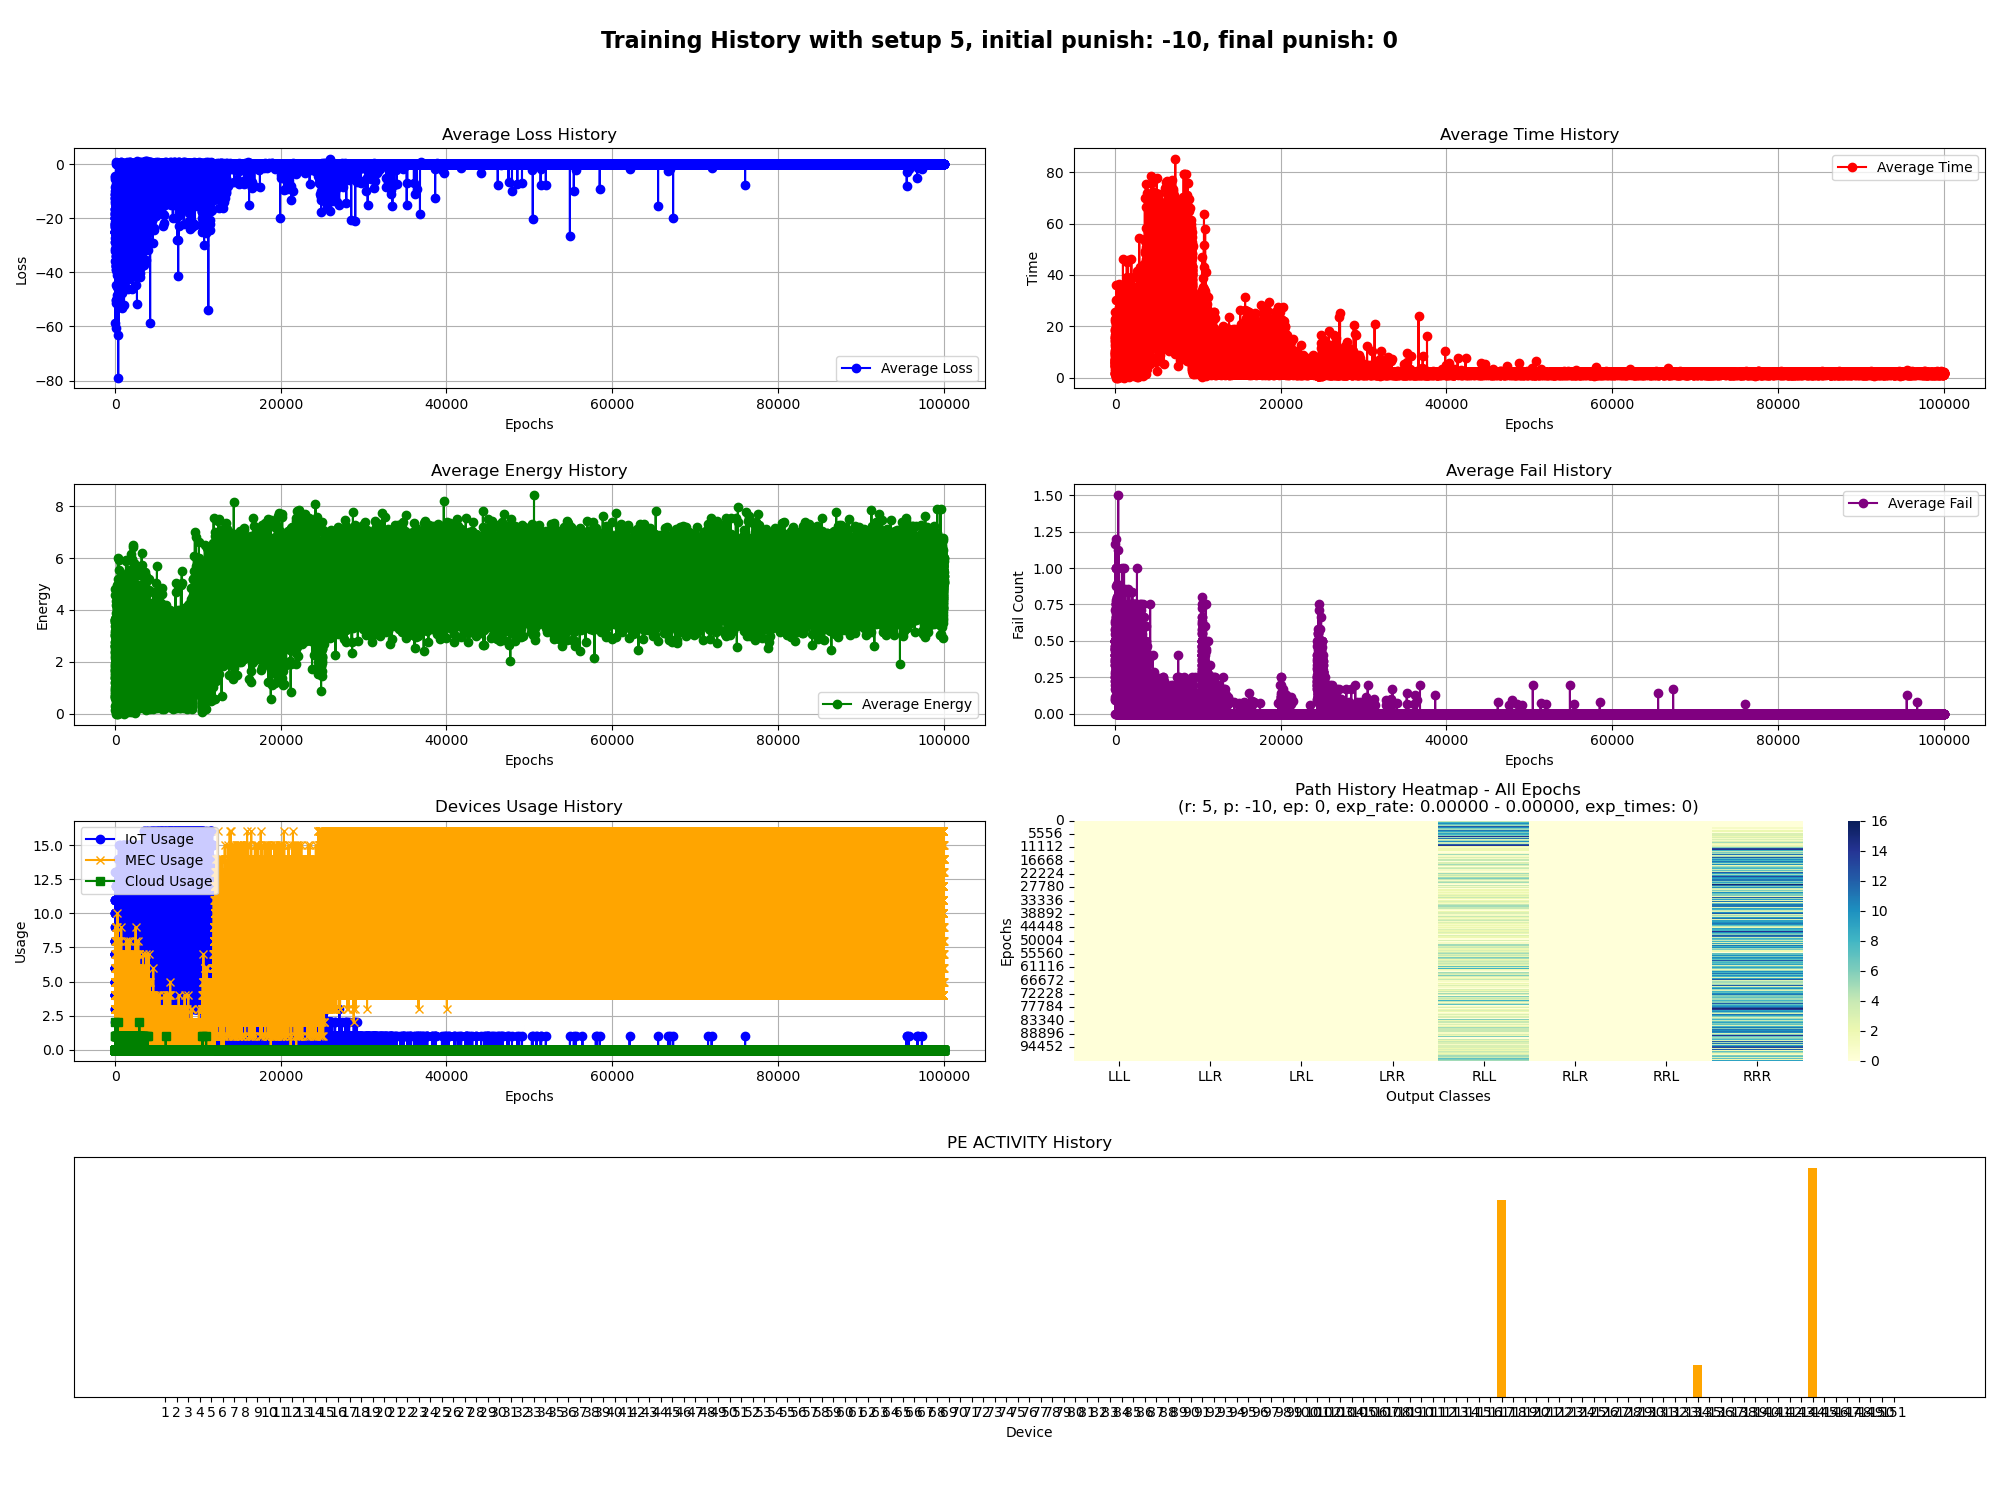
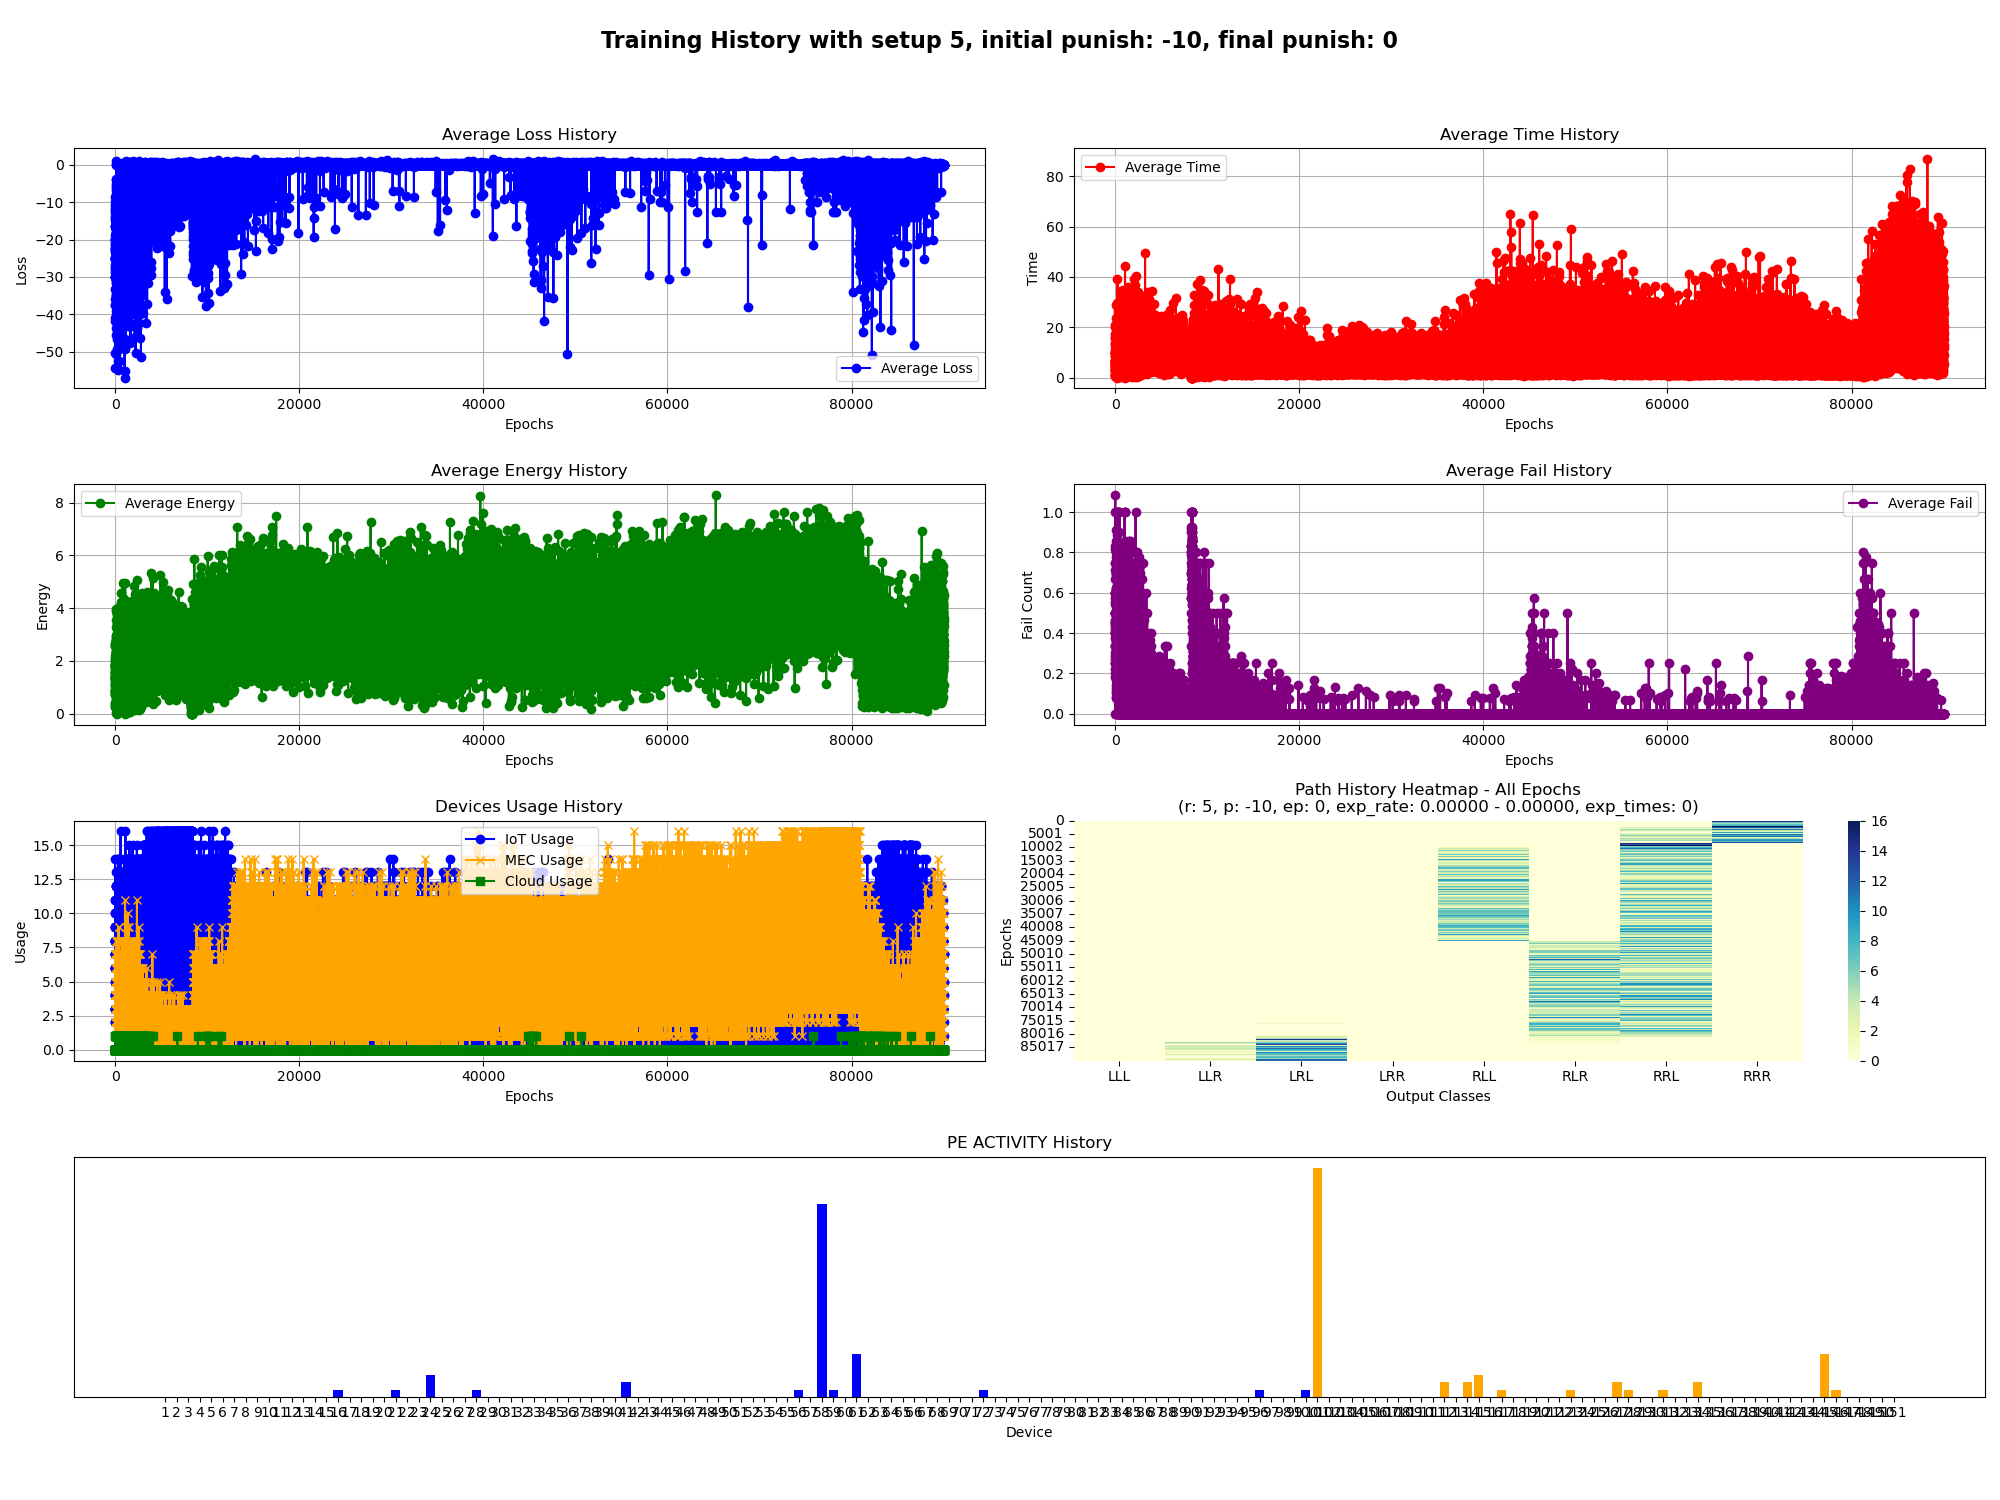
gin coeficient and diversity involved in utilization

diff --git a/env/env.py b/env/env.py
@@ -49,9 +49,17 @@ class Environment():
             self.monitor.run(job_id)
 
             utilization = None
+            diversity = None
+            gin = None
             if job_id > 1000:
                 self.change_env()
                 utilization = [sum(usage) for usage in self.device_usuages]
+                used_devices_count = sum(1 for usage in self.device_usuages if 1 in usage)
+                diversity = used_devices_count / len(self.devices)
+                gin = self.util.gini_coefficient(utilization)
+
+                # if used_devices_count != 151:
+                #     print(used_devices_count, diversity)
 
             time_job = energy_job = reward_job = loss_job = 0
             fail_job = np.array([0, 0, 0, 0])
@@ -61,8 +69,7 @@ class Environment():
             task_list = self.jobs[job_id]["tasks_ID"]
             for task_id in task_list:
                 current_task = self.tasks[task_id]
-                input_state = self.util.get_input(current_task)
-
+                input_state = self.util.get_input(current_task, diversity, gin)
                 action, path, devices = self.actor_critic.choose_action(input_state, utilization)
 
                 selected_device_index = action
@@ -87,6 +94,7 @@ class Environment():
                 (freq, vol) = selected_device['voltages_frequencies'][core_index][0]
                 # Normalize utilization to [0, 1]
                 selected_device_util = None
+                # diversity = None
                 if utilization is not None:
                     utilization = torch.tensor(utilization, dtype=torch.float)
                     # if job_id > 1000:
@@ -98,7 +106,7 @@ class Environment():
                                                                                     core_i=core_index,
                                                                                     freq=freq, volt=vol,
                                                                                     task_ID=task_id,
-                                                                                    utilization=selected_device_util)
+                                                                                    utilization=selected_device_util, diversity=diversity, gin=gin)
                 for i, _ in enumerate(self.device_usuages):
                     if i == selected_device_index:
                         self.device_usuages[i].append(1)
@@ -148,7 +156,7 @@ class Environment():
 
     ##### Functionality
 
-    def execute_action(self, pe_ID, core_i, freq, volt, task_ID, utilization):
+    def execute_action(self, pe_ID, core_i, freq, volt, task_ID, utilization, diversity, gin):
         pe = self.devices[pe_ID]
         task = self.tasks[task_ID]
         task_pres = [self.tasks[pre_id] for pre_id in task["predecessors"]]
@@ -176,8 +184,12 @@ class Environment():
         if learning_config['regularize_output']:
             reg_t = self.util.regularize_output(total_t=total_t)
             reg_e = self.util.regularize_output(total_e=total_e)
-        if utilization is not None:
-            return reward_function(t=reg_t, e=reg_e) * (1 - 1 * utilization) + battery_drain_punish, reg_t, reg_e, \
+        if utilization is not None and diversity is not None and gin is not None:
+            lambda_diversity = learning_config["max_lambda"] * (1 - diversity)
+            lambda_gini = learning_config["max_lambda"] * gin
+            lambda_penalty = learning_config["alpha_diversity"] * lambda_diversity + learning_config["alpha_gin"] * lambda_gini
+
+            return reward_function(t=reg_t, e=reg_e) * (1 - lambda_penalty * utilization) + battery_drain_punish, reg_t, reg_e, \
                 fail_flags[2], fail_flags[1], fail_flags[0]
         else:
             return reward_function(t=reg_t, e=reg_e) + battery_drain_punish, reg_t, reg_e, \

diff --git a/env/utils.py b/env/utils.py
@@ -10,7 +10,7 @@ class Utility:
         self.min_time, self.max_time, self.min_energy, self.max_energy = self.get_min_max_time_energy()
 
     # FEATURE EXTRACTION
-    def get_input(self, task):
+    def get_input(self, task, diversity, gin):
 
         if learning_config['regularize_input']:
             compLoad = [min(jobs_config["task"]["computational_load"]) * 1e6,
@@ -44,6 +44,15 @@ class Utility:
         else:
             task_features.extend([
                 task["task_kind"],
+            ])
+
+        if gin is not None and diversity is not None:
+            task_features.extend([
+                diversity, gin
+            ])
+        else:
+            task_features.extend([
+                0, 1
             ])
         return task_features
 
@@ -112,6 +121,24 @@ class Utility:
                 #     print(f' b_start: {battery_start}, b_end: {battery_end}, punish: {punish}')
 
         return punish, batteryFail
+
+    def lambda_D(self, D, lambda_max, T_low, T_high):
+        if D <= T_low:
+            return lambda_max
+        elif D < T_high:
+            return lambda_max * (T_high - D) / (T_high - T_low)
+        else:
+            return 0
+
+    def gini_coefficient(self, utils):
+        utils = np.array(utils)
+        utils = utils[utils != 0]  # Exclude zero counts if necessary
+        sorted_counts = np.sort(utils)
+        N = len(sorted_counts)
+        index = np.arange(1, N + 1)
+        total = utils.sum()
+        G = (2 * (index * sorted_counts).sum() - (N + 1) * total) / (N * total)
+        return G
 
     def regularize_output(self, total_t=0, total_e=0):
         if total_e:
@@ -254,7 +281,7 @@ def calc_total(device, task, task_pres, core, dvfs):
         #     baseEnergy = calc_energy(device, task, core, dvfs)
         #     totalEnergy = baseEnergy
 
-    if len(task_pres) > 0:
+    elif len(task_pres) > 0:
         predecessors_time_cost, predecessors_energy_cost = pred_cost(task_pres, device)
     totalTime += predecessors_time_cost
     totalEnergy += predecessors_energy_cost

diff --git a/config.py b/config.py
@@ -1,5 +1,5 @@
 jobs_config = {
-    "num_jobs": 50000,
+    "num_jobs": 100000,
     "max_deadline": 2000,
     "max_task_per_depth": 2,
     "max_depth": 5,
@@ -76,7 +76,7 @@ devices_config = {
 }
 
 learning_config = {
-    "num_epoch": 50000,
+    "num_epoch": 100000,
     ###### TREE #######
     "tree": "ddt",  # ddt
 
@@ -99,6 +99,9 @@ learning_config = {
 
     "alpha": 1,  # energy coefficient in the reward
     "beta": 1,  # time coefficient in the reward
+    "alpha_diversity": 1,
+    "alpha_gin": 1,
+    "max_lambda": 6,
 
     ###### PUNISH #######
     "increasing_punish": False,
@@ -139,8 +142,8 @@ learning_config = {
     "utilization_eps": 1e-4,
 
     "transmission_calc_type": 1,
-    # 0: predecessor
-    # 1: tems
+    #   0: predecessor
+    #   1: tems
 
     ###### PATHS #######
     "result_summery_path": './results/summery.csv',

diff --git a/model/utils.py b/model/utils.py
@@ -20,9 +20,9 @@ def get_tree(devices):
 
 
 def get_num_input():
-    num_input = 8
+    num_input = 10
     if learning_config['onehot_kind']:
-        num_input = 11
+        num_input = 13
     return num_input
 
 
